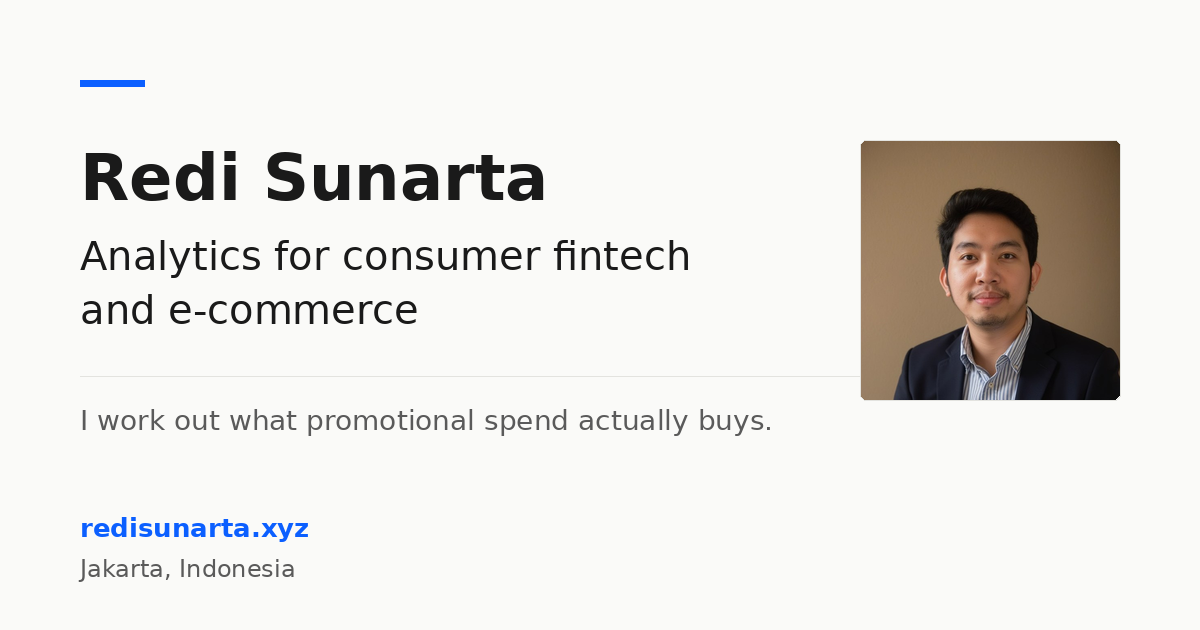
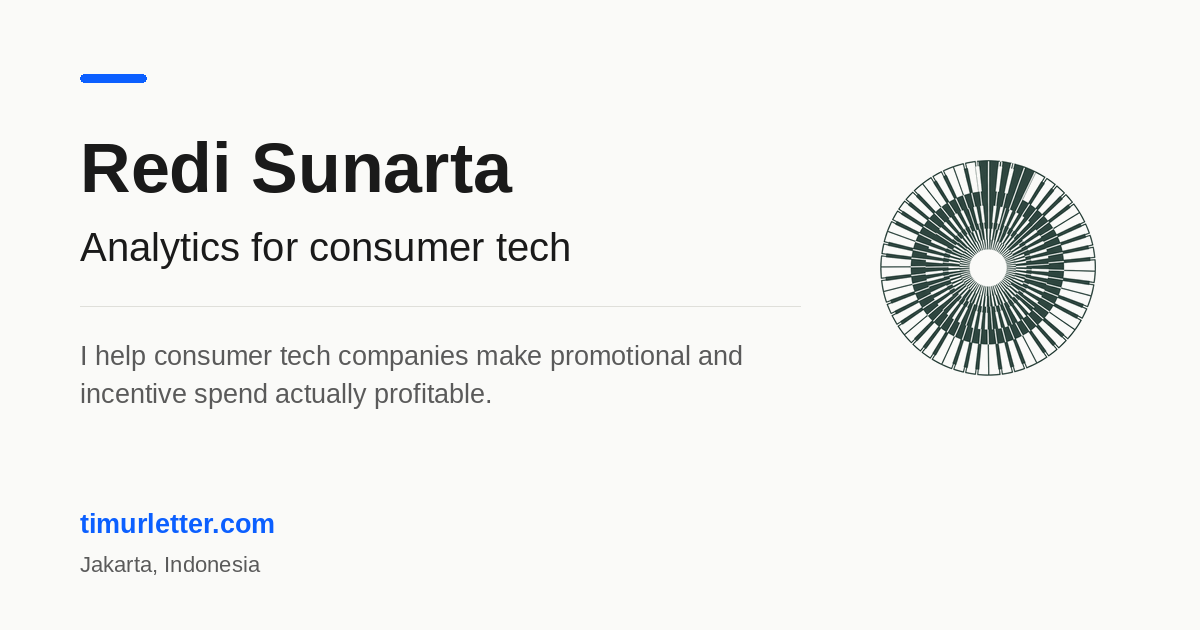
change the render for preview

diff --git a/tools/make-og.py b/tools/make-og.py
@@ -1,0 +1,197 @@
+#!/usr/bin/env python3
+"""
+Generate the Open Graph card — assets/og.png (1200x630).
+
+    python3 tools/make-og.py            # photo variant (default)
+    python3 tools/make-og.py --logo     # Timur logo variant
+    python3 tools/make-og.py --both     # writes og-photo.png and og-logo.png to preview
+
+This is the image LinkedIn, X, WhatsApp and Slack show when someone pastes
+your URL. It is a real image file, NOT rendered from the page, so it does
+NOT update when you edit the site copy. Rerun this script whenever the
+name, tagline, subtitle or domain changes.
+
+Everything you would want to edit is in the CONFIG block below.
+"""
+
+import os
+import sys
+import textwrap
+
+from PIL import Image, ImageDraw, ImageFont
+
+os.chdir(os.path.dirname(os.path.dirname(os.path.abspath(__file__))))
+
+# ---------------------------------------------------------------- CONFIG ----
+# Edit these. They must match the site copy.
+NAME     = "Redi Sunarta"
+TAGLINE  = "Analytics for consumer tech"
+SUBTITLE = ("I help consumer tech companies make promotional "
+            "and incentive spend actually profitable.")
+DOMAIN   = "timurletter.com"
+PLACE    = "Jakarta, Indonesia"
+
+PHOTO = "assets/redi-440.jpg"
+LOGO  = "assets/timur-logo.png"
+
+# Design tokens — same values as css/style.css
+INK    = (26, 26, 26)        # --ink      #1A1A1A
+MUTED  = (90, 90, 90)        # body grey
+PAPER  = (250, 250, 248)     # --paper    #FAFAF8
+ACCENT = (11, 95, 255)       # --accent   #0B5FFF
+HAIR   = (223, 223, 218)     # hairline rule
+LOGO_INK = (21, 47, 40)      # Timur mark  #152F28
+
+W, H = 1200, 630             # the size every platform expects
+LOGO_SIZE = 216              # logo drawn smaller than the 264px photo box,
+                             # so a mark gets breathing room a portrait doesn't need
+# ---------------------------------------------------------------------------
+
+FONT_DIR = "/usr/share/fonts/truetype/liberation2"
+if not os.path.isdir(FONT_DIR):
+    FONT_DIR = "/usr/share/fonts/truetype/liberation"
+
+
+def font(weight, size):
+    path = os.path.join(FONT_DIR, f"LiberationSans-{weight}.ttf")
+    if not os.path.exists(path):
+        path = "/usr/share/fonts/truetype/dejavu/DejaVuSans.ttf"
+    return ImageFont.truetype(path, size)
+
+
+def wrap(draw, text, fnt, max_w):
+    """Greedy wrap by measured pixel width, not character count."""
+    words, lines, cur = text.split(), [], ""
+    for word in words:
+        trial = f"{cur} {word}".strip()
+        if draw.textlength(trial, font=fnt) <= max_w or not cur:
+            cur = trial
+        else:
+            lines.append(cur)
+            cur = word
+    if cur:
+        lines.append(cur)
+    return lines
+
+
+def rounded(img, size, radius):
+    """Square-crop, resize, and round the corners of an image."""
+    side = min(img.size)
+    left, top = (img.width - side) // 2, (img.height - side) // 2
+    img = img.crop((left, top, left + side, top + side))
+    img = img.resize((size, size), Image.LANCZOS).convert("RGB")
+    mask = Image.new("L", (size, size), 0)
+    ImageDraw.Draw(mask).rounded_rectangle([0, 0, size - 1, size - 1],
+                                           radius=radius, fill=255)
+    img.putalpha(mask)
+    return img
+
+
+def build(art_path, out_path, contain=False):
+    card = Image.new("RGB", (W, H), PAPER)
+    d = ImageDraw.Draw(card)
+
+    X = 80                     # left margin
+    ART = 264                  # artwork box
+    ART_X = W - X - ART        # right-aligned artwork
+    TEXT_W = ART_X - X - 56    # text column, 56px gutter before the artwork
+
+    # accent rule — the same visual signature as the site header
+    d.rounded_rectangle([X, 74, X + 66, 82], radius=4, fill=ACCENT)
+
+    y = 128
+    f_name = font("Bold", 70)
+    d.text((X, y), NAME, font=f_name, fill=INK)
+    y += 96
+
+    f_tag = font("Regular", 40)
+    for line in wrap(d, TAGLINE, f_tag, TEXT_W):
+        d.text((X, y), line, font=f_tag, fill=INK)
+        y += 52
+
+    y += 30
+    d.line([X, y, ART_X - 56, y], fill=HAIR, width=1)
+    y += 34
+
+    f_sub = font("Regular", 27)
+    for line in wrap(d, SUBTITLE, f_sub, TEXT_W):
+        d.text((X, y), line, font=f_sub, fill=MUTED)
+        y += 38
+
+    # domain and place, baseline-anchored to the bottom margin
+    f_dom = font("Bold", 27)
+    f_place = font("Regular", 22)
+    d.text((X, H - 122), DOMAIN, font=f_dom, fill=ACCENT)
+    d.text((X, H - 78), PLACE, font=f_place, fill=MUTED)
+
+    # artwork, vertically centred against the name + tagline block
+    art = Image.open(art_path)
+    if contain:
+        # The logo ships as dark-on-white with anti-aliased edges, so pasting
+        # it as a block leaves a visible rectangle: its background is
+        # #FCFDFD-#FFFFFF with a slight horizontal gradient, while the paper
+        # is the warmer #FAFAF8.
+        #
+        # Multiply-blending gets close but cannot cancel the gradient — one
+        # white point leaves one edge two levels off, which is still faintly
+        # visible. A hard cutout would leave a pale halo on the anti-aliased
+        # spokes.
+        #
+        # The mark is monochrome (#152F28 throughout), so the reliable move is
+        # to treat luminance as an ink-coverage matte and repaint it: every
+        # background pixel resolves to *exactly* the paper colour whatever the
+        # gradient does, solid pixels to exactly the logo green, and the
+        # anti-aliased spoke edges to a correct blend of the two.
+        art = art.convert("RGB")
+        art.thumbnail((LOGO_SIZE, LOGO_SIZE), Image.LANCZOS)
+        lw, lh = art.size
+        px = art.load()
+
+        lum = [[(299 * px[ix, iy][0] + 587 * px[ix, iy][1]
+                 + 114 * px[ix, iy][2]) // 1000
+                for ix in range(lw)] for iy in range(lh)]
+        flat = sorted(v for row in lum for v in row)
+        # a high percentile, not max, so gradient noise clamps to zero coverage
+        white = max(1, flat[int(len(flat) * 0.995)])
+        black = flat[int(len(flat) * 0.002)]
+        span = max(1, white - black)
+
+        # Background pixels sit a shade below the white point, which would
+        # leave them at ~1% coverage — enough to still read as a faint box.
+        # Anything under 4% coverage is background noise, not artwork: a real
+        # anti-aliased spoke edge ramps through that range in well under a
+        # pixel, so snapping it to zero costs nothing visible.
+        DEADBAND = 0.04
+
+        for iy in range(lh):
+            for ix in range(lw):
+                a = (white - lum[iy][ix]) / span
+                a = 0.0 if a < DEADBAND else (1.0 if a > 1.0 else a)
+                px[ix, iy] = tuple(
+                    round(PAPER[i] + a * (LOGO_INK[i] - PAPER[i]))
+                    for i in range(3)
+                )
+        # centre the logo inside the same 264px box the portrait occupies,
+        # so the two variants share one layout
+        card.paste(art, (ART_X + (ART - lw) // 2, 136 + (ART - lh) // 2))
+    else:
+        art = rounded(art, ART, 10)
+        card.paste(art, (ART_X, 136), art)
+
+    card.save(out_path, "PNG", optimize=True)
+    kb = os.path.getsize(out_path) / 1024
+    print(f"  wrote {out_path}  {W}x{H}  {kb:.0f} KB")
+
+
+if __name__ == "__main__":
+    if "--both" in sys.argv:
+        # underscore prefix: assets/_* is gitignored, so throwaway previews
+        # can never be committed by accident
+        build(PHOTO, "assets/_og-photo.png")
+        build(LOGO, "assets/_og-logo.png", contain=True)
+        print("\npreview both, then rerun without --both (or with --logo) "
+              "to write assets/og.png")
+    elif "--logo" in sys.argv:
+        build(LOGO, "assets/og.png", contain=True)
+    else:
+        build(PHOTO, "assets/og.png")

diff --git a/tools/check.py b/tools/check.py
@@ -177,6 +177,50 @@ for pdf_path in glob.glob("resume/*.pdf"):
                       f"— the site masks these as XX. Publishing the raw PDF "
                       f"undoes that decision.")
 
+# The OG card is a baked PNG, not rendered from the page, so editing the site
+# copy does NOT update it. It shipped once showing the old domain and the old
+# tagline for exactly this reason. Two guards:
+#   1. the copy constants in make-og.py must still match the live site
+#   2. the PNG must be newer than the sources that describe it
+OG = "assets/og.png"
+if not os.path.exists(OG):
+    errors.append(f"{OG} missing — run python3 tools/make-og.py")
+elif os.path.exists("tools/make-og.py"):
+    gen = open("tools/make-og.py", encoding='utf-8').read()
+
+    def const(name):
+        m = re.search(rf'^{name}\s*=\s*(.+?)(?:\s*#.*)?$', gen, re.M)
+        if not m:
+            return None
+        try:
+            return eval(m.group(1), {}, {})
+        except Exception:
+            return None
+
+    build_src = open("build.py", encoding='utf-8').read()
+    m = re.search(r'^DOMAIN\s*=\s*["\']([^"\']+)', build_src, re.M)
+    site_domain = re.sub(r'^https?://', '', m.group(1)).rstrip('/') if m else None
+    og_domain = const("DOMAIN")
+    if site_domain and og_domain and og_domain != site_domain:
+        errors.append(f"OG card shows domain '{og_domain}' but the site is "
+                      f"'{site_domain}' — rerun tools/make-og.py")
+
+    tagline = const("TAGLINE")
+    if tagline and os.path.exists("index.html"):
+        home = open("index.html", encoding='utf-8').read()
+        m = re.search(r'<meta property="og:title" content="([^"]*)"', home)
+        if m and tagline.lower() not in m.group(1).lower():
+            warnings.append(f"OG card tagline '{tagline}' does not appear in the "
+                            f"home og:title '{m.group(1)}' — is the card stale?")
+
+    newest = max((os.path.getmtime(f) for f in
+                  ("_pages/index.html", "_partials/head.html",
+                   "build.py", "tools/make-og.py")
+                  if os.path.exists(f)), default=0)
+    if os.path.getmtime(OG) < newest - 1:
+        warnings.append(f"{OG} is older than the page sources — the card may "
+                        f"show outdated copy. Rerun tools/make-og.py")
+
 # deploy plumbing
 if not os.path.exists("CNAME"):
     warnings.append("no CNAME file — custom domain will not work on GitHub Pages")
